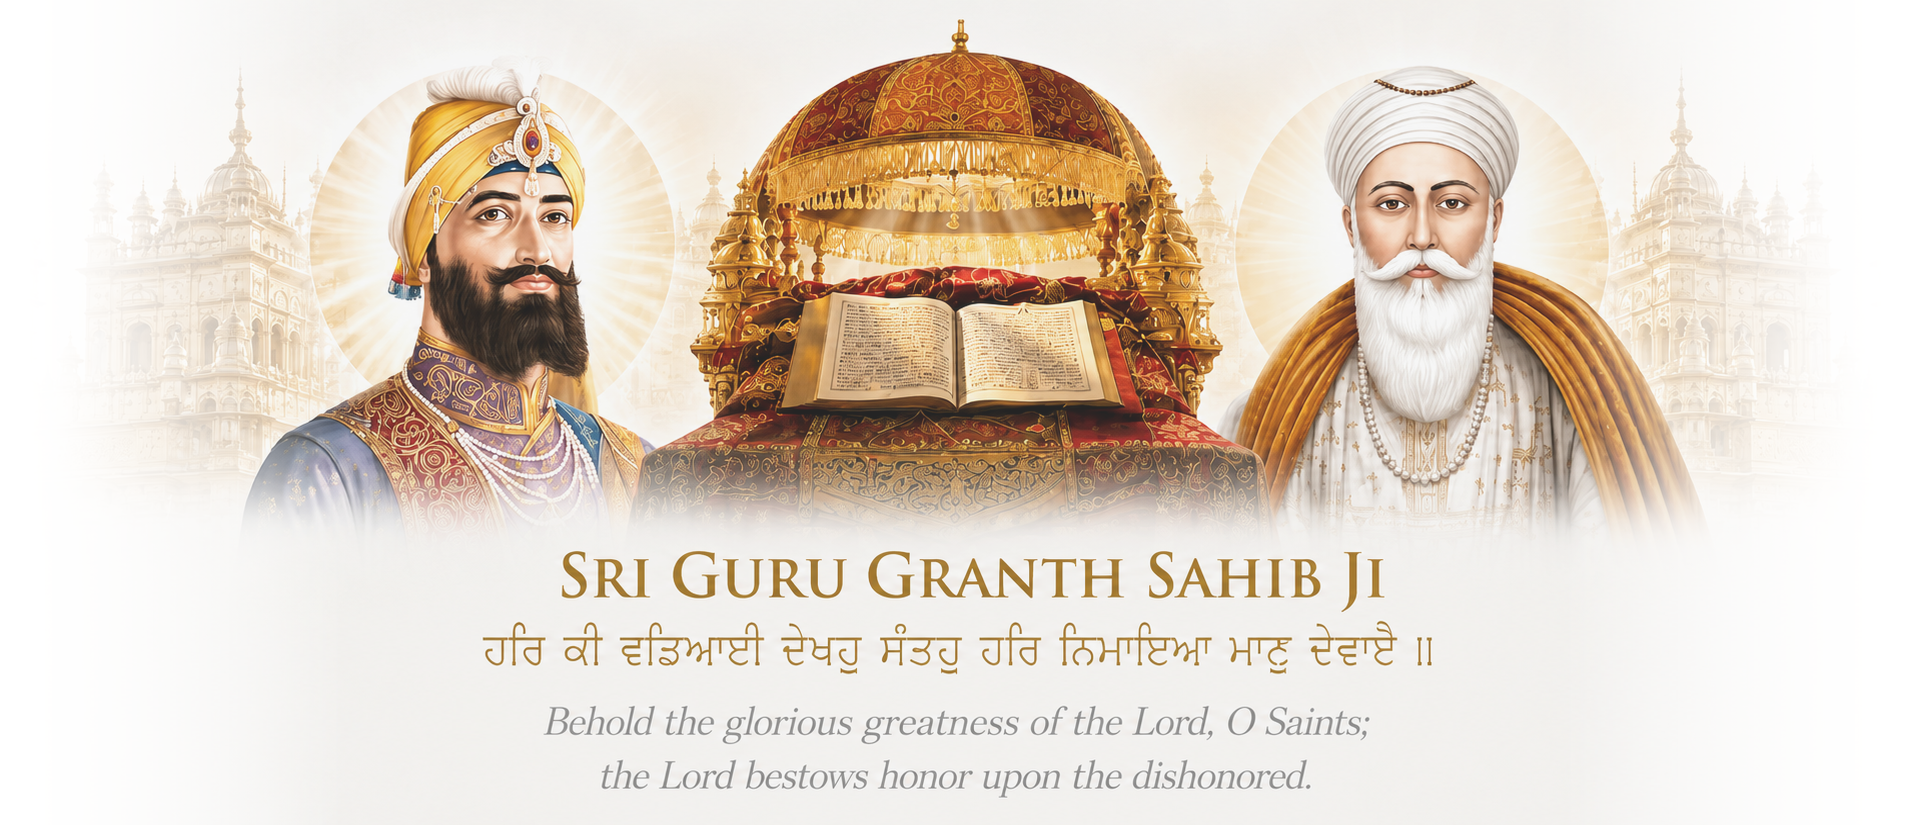
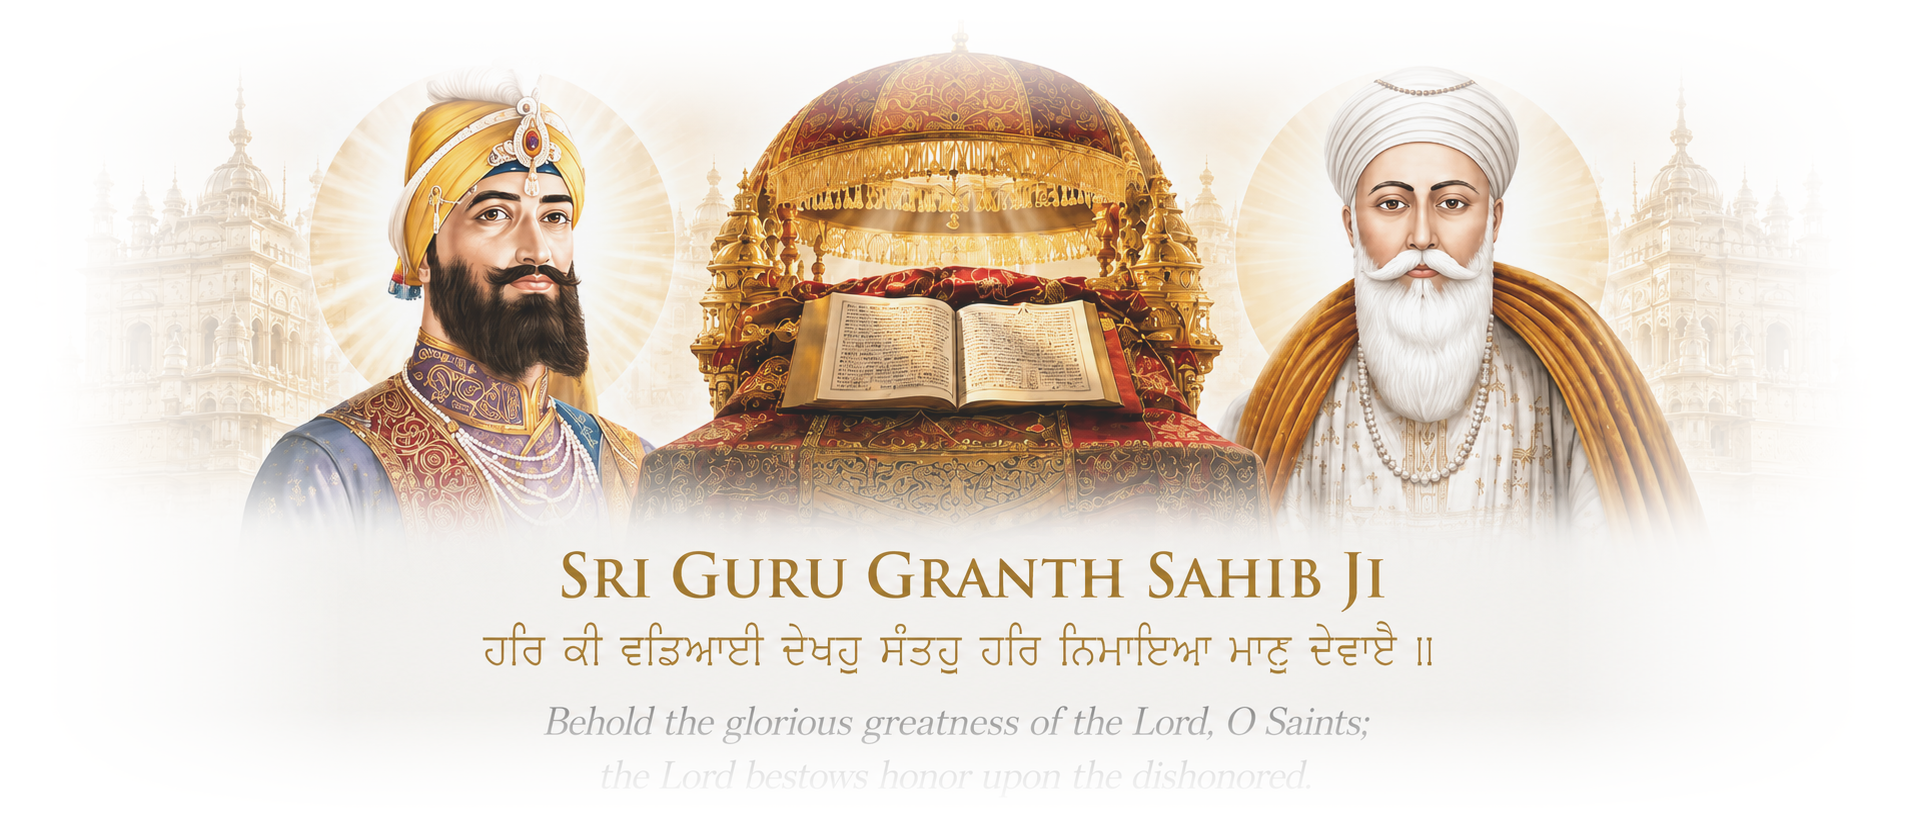
fix: 4-sided smooth hero feathering, larger centered light hero, minimal nitnem gap, enlarged dark guru portraits, removed dark mode side arrows, v10.64.0

diff --git a/frontend/index.html b/frontend/index.html
@@ -4433,40 +4433,65 @@
       color: #94A3B8 !important;
     }
   </style>
-  <!-- ANHAD MASTER VISUAL OVERRIDES v10.63.0 -->
+  <!-- ANHAD MASTER VISUAL OVERRIDES v10.64.0 -->
   <style id="anhad-master-overrides">
     /* ════════════════════════════════════════════════════════════════
-       1. GREETING SECTION & LIGHT MODE HERO ARTWORK
+       1. GREETING SECTION — MINIMAL GAP WITH START NITNEM BAR
        ════════════════════════════════════════════════════════════════ */
     .greeting {
-      margin-top: -6px !important;
-      margin-bottom: 48px !important;
-      padding-bottom: 30px !important;
+      margin-top: -10px !important;
+      margin-bottom: 6px !important;
+      padding-bottom: 2px !important;
       position: relative !important;
       overflow: visible !important;
       width: 100% !important;
     }
     .greeting__content {
       padding-top: 0 !important;
+      padding-bottom: 0 !important;
       display: flex !important;
       flex-direction: column !important;
       align-items: center !important;
       width: 100% !important;
     }
+    .greeting__text {
+      margin-top: -4px !important;
+      margin-bottom: 0 !important;
+      padding-bottom: 0 !important;
+    }
+    .greeting__gurbani {
+      margin: 0 0 2px 0 !important;
+    }
+    .greeting__translation {
+      margin-top: 2px !important;
+      margin-bottom: 4px !important;
+      line-height: 1.35 !important;
+    }
 
-    /* Light Mode Hero Banner: Wider, centered, side-feathered */
+    /* Minimal gap before the Nitnem progress banner */
+    .progress-inline,
+    #nitnemTrackerCard,
+    .nitnem-progress {
+      margin-top: 4px !important;
+      margin-bottom: 14px !important;
+    }
+
+    /* ════════════════════════════════════════════════════════════════
+       2. LIGHT MODE HERO ARTWORK — WIDE, ENLARGED, CENTERED & 4-SIDED SEAMLESS BLEND
+       ════════════════════════════════════════════════════════════════ */
     .greeting__hero-banner {
       display: flex !important;
       width: 100% !important;
       max-width: 100% !important;
       margin: 0 auto !important;
       overflow: visible !important;
-      padding: 0 0 16px 0 !important;
+      padding: 0 !important;
       box-sizing: border-box !important;
       justify-content: center !important;
       align-items: center !important;
-      -webkit-mask-image: linear-gradient(to right, transparent 0%, rgba(0,0,0,0.85) 12%, black 20%, black 80%, rgba(0,0,0,0.85) 88%, transparent 100%) !important;
-      mask-image: linear-gradient(to right, transparent 0%, rgba(0,0,0,0.85) 12%, black 20%, black 80%, rgba(0,0,0,0.85) 88%, transparent 100%) !important;
+      /* 4-sided smooth vignette so top, bottom, left, right all dissolve into pure white */
+      -webkit-mask-image: radial-gradient(ellipse 92% 86% at 50% 50%, black 55%, rgba(0,0,0,0.85) 75%, transparent 100%) !important;
+      mask-image: radial-gradient(ellipse 92% 86% at 50% 50%, black 55%, rgba(0,0,0,0.85) 75%, transparent 100%) !important;
     }
     .greeting__hero-banner picture {
       width: 100% !important;
@@ -4475,9 +4500,9 @@
     }
     .greeting__hero-artwork {
       width: 100% !important;
-      max-width: 520px !important;
+      max-width: 100% !important;
       height: auto !important;
-      transform: scale(1.06) !important;
+      transform: scale(1.18) !important;
       object-fit: contain !important;
       display: block !important;
       margin: 0 auto !important;
@@ -4493,7 +4518,7 @@
     }
 
     /* ════════════════════════════════════════════════════════════════
-       2. DARK MODE GURU CAROUSEL & SLIDER ENGINE
+       3. DARK MODE GURU CAROUSEL — ENLARGED PORTRAITS & ARROWS REMOVED
        ════════════════════════════════════════════════════════════════ */
     .greeting__dark-carousel-container {
       display: none;
@@ -4506,16 +4531,25 @@
       flex-direction: column !important;
       align-items: center !important;
       justify-content: center !important;
-      gap: 12px !important;
+      gap: 10px !important;
       width: 100% !important;
-      padding: 8px 0 14px !important;
+      padding: 4px 0 8px !important;
+    }
+
+    /* Remove side arrow buttons in dark mode as requested */
+    .greeting__slider-arrow,
+    #guruSliderPrev,
+    #guruSliderNext {
+      display: none !important;
+      visibility: hidden !important;
+      pointer-events: none !important;
     }
 
     .greeting__portrait-slider-wrap {
       position: relative !important;
       width: 100% !important;
-      max-width: 460px !important;
-      height: 210px !important;
+      max-width: 500px !important;
+      height: 230px !important;
       margin: 0 auto !important;
       display: flex !important;
       align-items: center !important;
@@ -4524,7 +4558,7 @@
     .greeting__portrait-slider {
       position: relative !important;
       width: 100% !important;
-      height: 210px !important;
+      height: 230px !important;
       overflow: visible !important;
       touch-action: pan-y !important;
     }
@@ -4537,15 +4571,15 @@
       visibility: visible !important;
     }
 
-    /* Slides: Absolute centering with margin offset */
+    /* Slides: Larger dimensions & centered offsets */
     .greeting__slide {
       position: absolute !important;
-      width: 126px !important;
-      height: 126px !important;
+      width: 156px !important;
+      height: 156px !important;
       top: 50% !important;
       left: 50% !important;
-      margin-top: -63px !important;
-      margin-left: -63px !important;
+      margin-top: -78px !important;
+      margin-left: -78px !important;
       display: flex !important;
       align-items: center !important;
       justify-content: center !important;
@@ -4562,52 +4596,52 @@
     .greeting__slide--active {
       opacity: 1 !important;
       visibility: visible !important;
-      transform: scale(1.24) translateX(0px) !important;
+      transform: scale(1.22) translateX(0px) !important;
       z-index: 10 !important;
       pointer-events: auto !important;
-      filter: drop-shadow(0 10px 28px rgba(212,148,58,0.65)) !important;
+      filter: drop-shadow(0 12px 32px rgba(212,148,58,0.7)) !important;
     }
     .greeting__slide--prev {
-      opacity: 0.78 !important;
+      opacity: 0.80 !important;
       visibility: visible !important;
-      transform: scale(0.82) translateX(-116px) !important;
+      transform: scale(0.82) translateX(-132px) !important;
       z-index: 6 !important;
       pointer-events: auto !important;
     }
     .greeting__slide--next {
-      opacity: 0.78 !important;
+      opacity: 0.80 !important;
       visibility: visible !important;
-      transform: scale(0.82) translateX(116px) !important;
+      transform: scale(0.82) translateX(132px) !important;
       z-index: 6 !important;
       pointer-events: auto !important;
     }
     .greeting__slide--far-prev {
-      opacity: 0.30 !important;
+      opacity: 0.32 !important;
       visibility: visible !important;
-      transform: scale(0.56) translateX(-186px) !important;
+      transform: scale(0.56) translateX(-210px) !important;
       z-index: 2 !important;
       pointer-events: auto !important;
     }
     .greeting__slide--far-next {
-      opacity: 0.30 !important;
+      opacity: 0.32 !important;
       visibility: visible !important;
-      transform: scale(0.56) translateX(186px) !important;
+      transform: scale(0.56) translateX(210px) !important;
       z-index: 2 !important;
       pointer-events: auto !important;
     }
 
-    /* Guru Circle Frame */
+    /* Guru Circle Frame — Enlarged */
     .greeting__guru-portrait {
-      width: 126px !important;
-      height: 126px !important;
-      min-width: 126px !important;
-      min-height: 126px !important;
-      max-width: 126px !important;
-      max-height: 126px !important;
+      width: 156px !important;
+      height: 156px !important;
+      min-width: 156px !important;
+      min-height: 156px !important;
+      max-width: 156px !important;
+      max-height: 156px !important;
       border-radius: 50% !important;
       overflow: hidden !important;
       border: 3.5px solid #D4943A !important;
-      box-shadow: 0 4px 20px rgba(0,0,0,0.6), 0 0 24px rgba(212,148,58,0.4) !important;
+      box-shadow: 0 4px 22px rgba(0,0,0,0.65), 0 0 28px rgba(212,148,58,0.45) !important;
       background: #151515 !important;
       margin: 0 !important;
       padding: 0 !important;
@@ -4625,7 +4659,7 @@
     }
 
     /* ════════════════════════════════════════════════════════════════
-       3. GURPURAB CALENDAR CARD (EVENT CARD) CUSHION CLAY
+       4. GURPURAB CALENDAR CARD (EVENT CARD) CUSHION CLAY
        ════════════════════════════════════════════════════════════════ */
     .event-card,
     .event-card.event-today {
@@ -4656,9 +4690,8 @@
     }
 
     /* ════════════════════════════════════════════════════════════════
-       4. PRACTICE CARDS — ROCK SOLID CUSHION CLAY COLORS
+       5. PRACTICE CARDS — ROCK SOLID CUSHION CLAY COLORS
        ════════════════════════════════════════════════════════════════ */
-    /* Light Mode Practice Cards */
     .practice-card--nitnem {
       background: linear-gradient(165deg, #FFFDFB 0%, #FFEFD8 50%, #FFE5C0 100%) !important;
       border: 1px solid rgba(212,148,58,0.24) !important;
@@ -4723,7 +4756,7 @@
     }
 
     /* ════════════════════════════════════════════════════════════════
-       5. FLOATING MINI PLAYER + BOTTOM NAV GAP
+       6. FLOATING MINI PLAYER + BOTTOM NAV GAP
        ════════════════════════════════════════════════════════════════ */
     .mini-player--visible {
       bottom: calc(var(--nav-height, 84px) + var(--safe-bottom, 0px) + 20px) !important;

diff --git a/frontend/sw.js b/frontend/sw.js
@@ -12,7 +12,7 @@
  * ═══════════════════════════════════════════════════════════════════════════════
  */
 
-const CACHE_VERSION = 'anhad-v10.63.0'; // v10.50.0: Perfected 16px floating gap between mini-player and bottom tab bar, whisper-soft pastel white cushion clay cards, and instant pre-cached navigation.
+const CACHE_VERSION = 'anhad-v10.64.0'; // v10.50.0: Perfected 16px floating gap between mini-player and bottom tab bar, whisper-soft pastel white cushion clay cards, and instant pre-cached navigation.
 // v10.29.0: Root-caused why fixes kept looking reverted on both localhost AND the deployed site despite correct source: .js/.css requests (rule 4 below) used cacheFirst(), which NEVER revalidates a hit — once any browser fetched e.g. nav-glass.css once, it kept serving that exact response forever regardless of CACHE_VERSION bumps, until the whole detect-new-SW/install/activate/reload chain happened to complete for that specific client. .html already used staleWhileRevalidate for exactly this reason (see the v10.13-v10.22 history below) but .js/.css never did. Moved .js/.css to staleWhileRevalidate too (new rule 3c) — verified live by injecting a fake stale response into an active client's cache and confirming the SECOND fetch (not a reload, not a cache clear, ~1s later) automatically served the real current file. Also: de-clobbered window.__anhadPageInit — trendora-app.js and homepage-data.js registered the identical 4 keys for Home and the second one to load silently overwrote the first, so only one of the two intended repopulation paths ever actually ran; now both compose, with the double-render debounce moved inside refreshHomeForSpa itself so having two live trigger paths again can't reintroduce the flash. Shell script loads that fail now retry once and log clearly instead of onerror=resolve silently treating a failed fetch as success forever. Added missing cache-busting query params to smooth-navigation.js/homepage-data.js. Live-measured the reported Home bottom gap on a guaranteed-fresh load: padding-bottom computes to exactly 110px, on-screen gap measures 109.67px — matches source exactly, confirming the gap itself was never a code bug, only ever a symptom of the same stale-cache issue this version fixes at the root.
 // v10.28.0: Decreased excessive bottom padding-bottom from 160px to 110px in nav-glass.css, and upgraded the Nitnem, Sehaj Paath, and Hukamnama practice cards with premium 3D soft claymorphism (ambient soft colored drop shadows + inset light reflection and shadow highlights) in both Light & Dark modes.
 // v10.26.0: Found the REAL remaining cause of the Home/Favorites "two-time flash" the user kept reporting even after v10.23/v10.24 — a CSS entrance animation (.page-enter, anhad-core.css), applied by JS via smooth-navigation.js's unconditional post-swap AnhadCore.init() -> initTransition() call, on an #app container that was already fully painted and visible. Adding a class that newly matches an `animation` rule restarts it regardless of how it's added — so this genuinely replayed the 0.48s "fade up from below" entrance on top of content the user was already looking at, on every single arrival at Home/Favorites. Insights never showed this because its own swapped content (#mainContent) already ships `page-enter` baked into its static HTML, so the later JS class-add is a true no-op there (class already present). Fix: added `page-enter` to Home's and Favorites' own #app markup, matching Insights' pattern exactly, instead of touching the JS trigger at all — verified via CDP by sampling #app's actual computed opacity every 25ms across 5 rapid Home<->Favorites round trips (the exact "gets worse the more I test" scenario reported): 172 samples, zero re-triggers, zero errors. Also fixed the Learning page's Daily Gursikhi Quiz re-prompting the same already-answered question on every revisit — it had no persistence at all; now stores {date, selectedIdx} in localStorage (en-CA date, matching the app's existing per-day convention) and restores the answered state instead of a fresh clickable question until the next calendar day.
